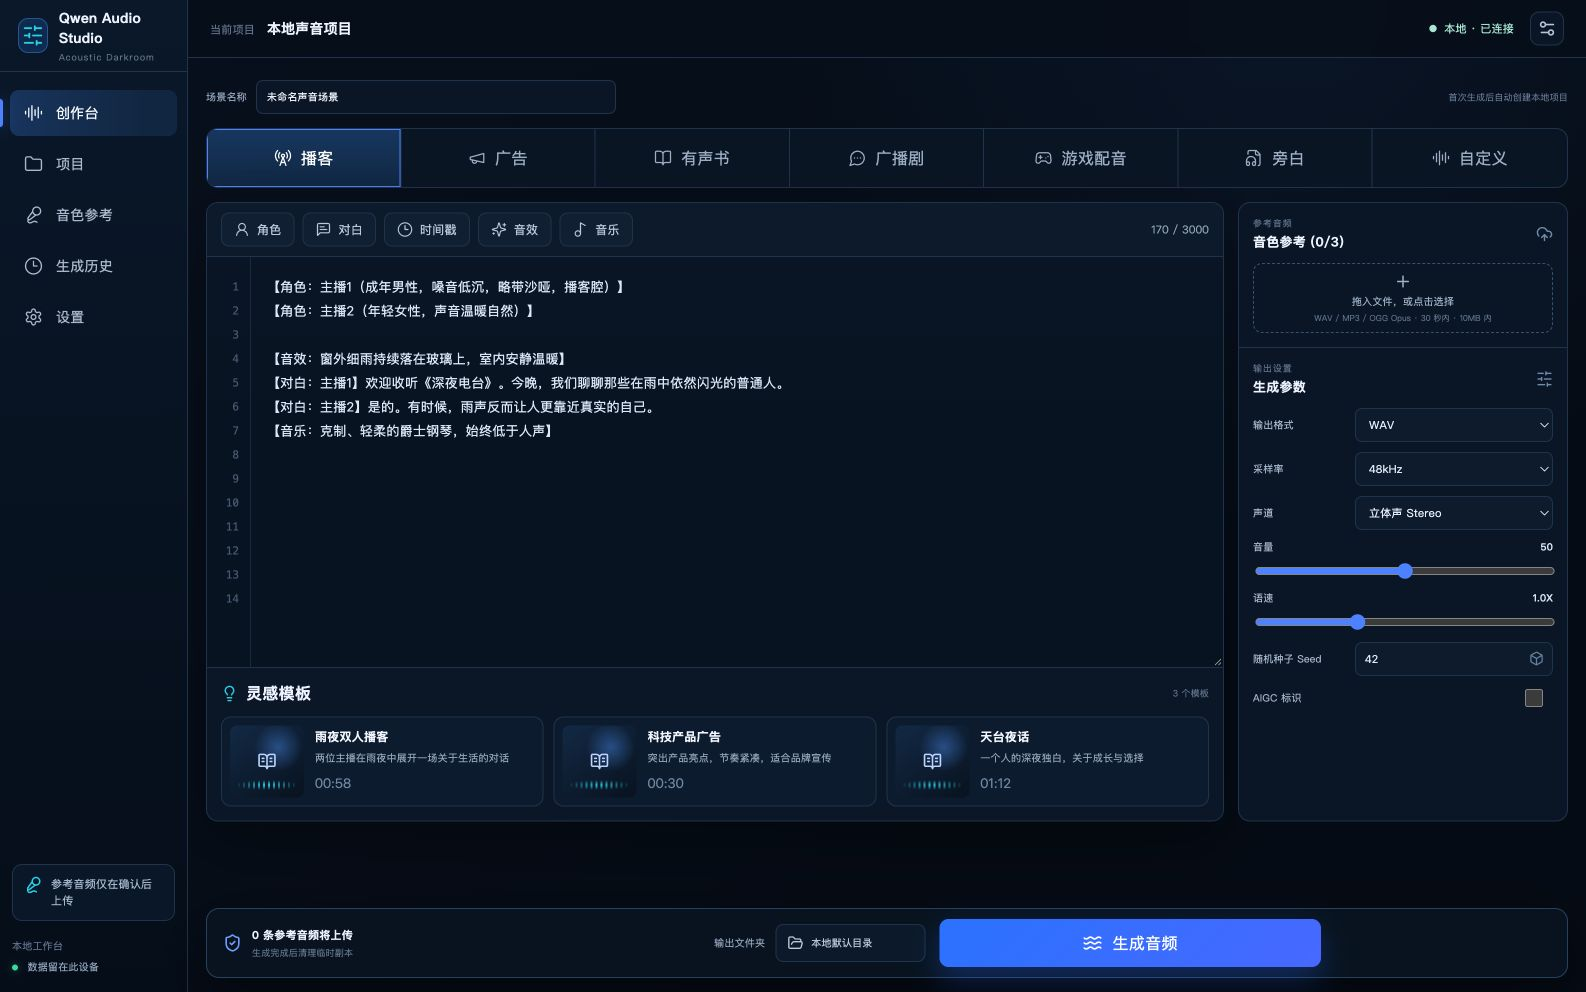
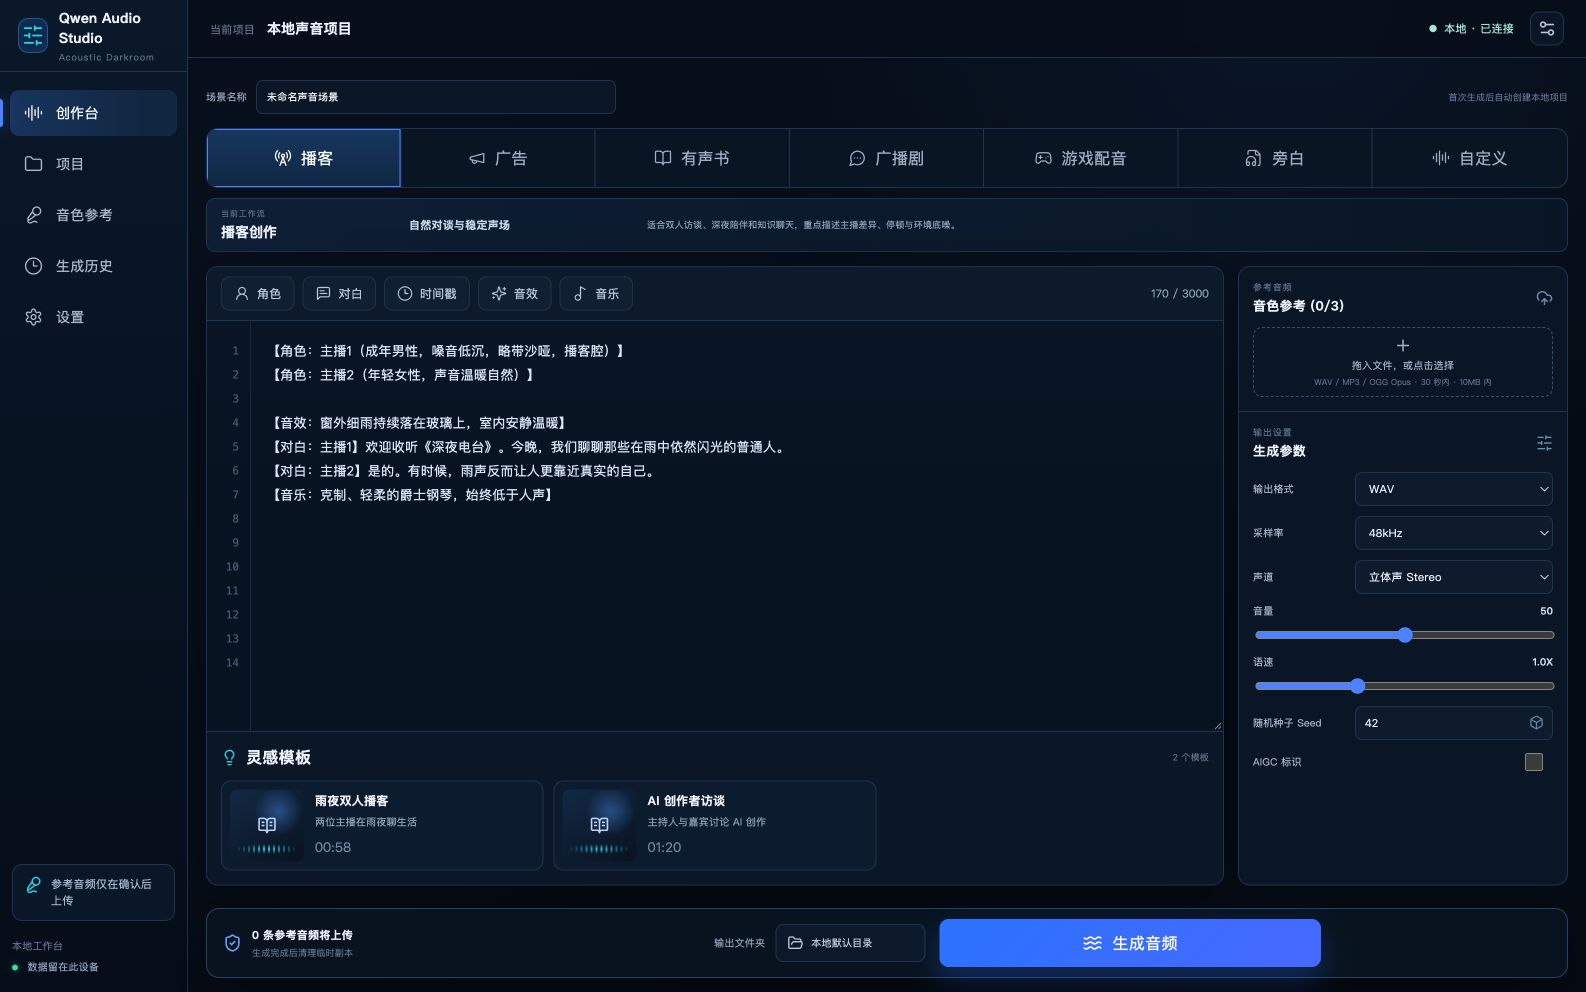
fix: make creation modes update the workbench

diff --git a/frontend/src/features/create/templates.ts b/frontend/src/features/create/templates.ts
@@ -9,46 +9,71 @@ export interface InspirationTemplate {
   prompt: string;
 }
 
+export const modeProfiles: Record<CreationMode, {title: string; description: string; detail: string}> = {
+  podcast: {title: "播客创作", description: "自然对谈与稳定声场", detail: "适合双人访谈、深夜陪伴和知识聊天，重点描述主播差异、停顿与环境底噪。"},
+  advertisement: {title: "广告创作", description: "短时长、高记忆点、强节奏", detail: "适合品牌片头与产品广告，建议明确开场音效、核心卖点、品牌落版和音乐淡出。"},
+  audiobook: {title: "有声书创作", description: "旁白叙事与角色对白", detail: "适合小说章节和故事片段，建议区分旁白、人物声线、场景氛围与段落节奏。"},
+  drama: {title: "广播剧创作", description: "多角色、动作音效与空间变化", detail: "适合悬疑、情感和科幻短剧，重点编排角色出场、动作先后与远近声场。"},
+  game: {title: "游戏配音创作", description: "NPC 台词与世界环境声", detail: "适合任务对白、战斗播报和交互语音，建议写清角色身份、状态、触发情境和环境事件。"},
+  narration: {title: "旁白创作", description: "单人讲述与清晰信息传达", detail: "适合科技解说、纪录片和教程，重点控制声线、语速、重音、停顿与背景克制程度。"},
+  auto: {title: "自定义创作", description: "自由组合完整声音场景", detail: "从空白结构开始，自由组合角色、对白、时间戳、音效与音乐。"}
+};
+
 export const inspirationTemplates: InspirationTemplate[] = [
   {
-    id: "rain-podcast",
-    title: "雨夜双人播客",
-    subtitle: "两位主播在雨夜中展开一场关于生活的对话",
-    mode: "podcast",
-    duration: "00:58",
-    prompt:
-      "【角色：主播1（成年男性，嗓音低沉，略带沙哑，播客腔）】\n" +
-      "【角色：主播2（年轻女性，声音温暖自然）】\n\n" +
-      "【音效：窗外细雨持续落在玻璃上，室内安静温暖】\n" +
-      "【对白：主播1】欢迎收听《深夜电台》。今晚，我们聊聊那些在雨中依然闪光的普通人。\n" +
-      "【对白：主播2】是的。有时候，雨声反而让人更靠近真实的自己。\n" +
-      "【音乐：克制、轻柔的爵士钢琴，始终低于人声】"
+    id: "rain-podcast", title: "雨夜双人播客", subtitle: "两位主播在雨夜聊生活", mode: "podcast", duration: "00:58",
+    prompt: "【角色：主播1（成年男性，嗓音低沉，略带沙哑，播客腔）】\n【角色：主播2（年轻女性，声音温暖自然）】\n\n【音效：窗外细雨持续落在玻璃上，室内安静温暖】\n【对白：主播1】欢迎收听《深夜电台》。今晚，我们聊聊那些在雨中依然闪光的普通人。\n【对白：主播2】是的。有时候，雨声反而让人更靠近真实的自己。\n【音乐：克制、轻柔的爵士钢琴，始终低于人声】"
   },
   {
-    id: "tech-ad",
-    title: "科技产品广告",
-    subtitle: "突出产品亮点，节奏紧凑，适合品牌宣传",
-    mode: "advertisement",
-    duration: "00:30",
-    prompt:
-      "【角色：广告播音员（三十岁男性，清亮冷静，富有科技感）】\n" +
-      "【音乐：未来感合成器琶音与克制电子鼓组】\n" +
-      "【对白：广告播音员】未来，此刻就在你手中。\n" +
-      "【音效：清脆解锁提示音、界面滑动声、快门声】\n" +
-      "【对白：广告播音员】看见更远的未来。"
+    id: "tech-podcast", title: "AI 创作者访谈", subtitle: "主持人与嘉宾讨论 AI 创作", mode: "podcast", duration: "01:20",
+    prompt: "【角色：主持人（青年男性，清晰、好奇、节奏自然）】\n【角色：嘉宾（成年女性，理性温和，表达笃定）】\n【音效：安静录音棚，极轻的设备底噪】\n【对白：主持人】AI 给创作者带来的最大变化是什么？\n【对白：嘉宾】它让一个人也能完成过去需要整个团队协作的工作。\n【音乐：片尾出现两秒极简电子提示音并淡出】"
   },
   {
-    id: "rooftop-story",
-    title: "天台夜话",
-    subtitle: "一个人的深夜独白，关于成长与选择",
-    mode: "audiobook",
-    duration: "01:12",
-    prompt:
-      "【角色：旁白（30岁女性，沉静、有故事感，语速舒缓）】\n" +
-      "【角色：阿哲（28岁男性，低沉疲惫但真诚）】\n" +
-      "【角色：大刘（28岁男性，爽朗乐观）】\n" +
-      "【音效：远处城市低鸣、晚风、易拉罐轻碰】\n" +
-      "【对白：阿哲】你说，我们是不是把日子过成了当年最讨厌的样子？\n" +
-      "【对白：大刘】管它呢。至少今晚，咱俩还是当年那两个小子。"
+    id: "tech-ad", title: "科技产品广告", subtitle: "节奏紧凑的产品品牌宣传", mode: "advertisement", duration: "00:30",
+    prompt: "【角色：广告播音员（三十岁男性，清亮冷静，富有科技感）】\n【音乐：未来感合成器琶音与克制电子鼓组】\n【对白：广告播音员】未来，此刻就在你手中。\n【音效：清脆解锁提示音、界面滑动声、快门声】\n【对白：广告播音员】看见更远的未来。"
+  },
+  {
+    id: "coffee-ad", title: "精品咖啡广告", subtitle: "磨豆、萃取与温暖品牌落版", mode: "advertisement", duration: "00:20",
+    prompt: "【音效：磨豆机短暂运转，随后是咖啡机蒸汽声与瓷杯轻放木桌】\n【角色：广告旁白（三十岁女性，温暖从容，语速舒缓）】\n【对白：广告旁白】世界很吵，但这一刻，属于你的安静。\n【音乐：轻柔爵士钢琴从台词下方缓慢浮现】\n【对白：广告旁白】木雀咖啡，慢下来，闻见生活。"
+  },
+  {
+    id: "rooftop-story", title: "天台夜话", subtitle: "旁白串起两个朋友的成长故事", mode: "audiobook", duration: "01:12",
+    prompt: "【角色：旁白（30岁女性，沉静、有故事感，语速舒缓）】\n【角色：阿哲（28岁男性，低沉疲惫但真诚）】\n【角色：大刘（28岁男性，爽朗乐观）】\n【音效：远处城市低鸣、晚风、易拉罐轻碰】\n【对白：阿哲】你说，我们是不是把日子过成了当年最讨厌的样子？\n【对白：大刘】管它呢。至少今晚，咱俩还是当年那两个小子。"
+  },
+  {
+    id: "forest-audiobook", title: "雾中森林", subtitle: "奇幻小说章节的沉浸式朗读", mode: "audiobook", duration: "01:30",
+    prompt: "【角色：旁白（成年男性，低沉克制，讲述感强）】\n【角色：少女（十六岁，警觉、轻声）】\n【音效：潮湿森林里的风、树叶摩擦与远处不明鸟鸣】\n【对白：旁白】雾从山谷里漫上来，把最后一条归路吞没。\n【对白：少女】别出声。它就在树后面。\n【音乐：低频弦乐极弱铺底，在对白后短暂增强】"
+  },
+  {
+    id: "midnight-store", title: "凌晨两点的便利店", subtitle: "暴雨夜里的原创悬疑短剧", mode: "drama", duration: "00:45",
+    prompt: "【音效：门外暴雨，便利店门被推开，电子门铃响起，门关闭后雨声明显变闷】\n【角色：店员（二十岁男性，熬夜后的沙哑与疲惫）】\n【角色：顾客（五十岁男性，浑厚低沉，语速极慢）】\n【对白：店员】欢迎光临，关东煮卖完了啊。\n【对白：顾客】给我一份昨天的报纸。\n【音效：键盘敲击突然停止，远处传来一声闷雷】"
+  },
+  {
+    id: "airlock-drama", title: "气闸关闭前", subtitle: "警报声中的科幻救援对话", mode: "drama", duration: "00:38",
+    prompt: "【音效：空间站红色警报持续蜂鸣，气压阀快速泄气】\n【角色：指挥员（成年女性，强行保持冷静）】\n【角色：舱外队员（成年男性，隔着面罩急促喘息）】\n【对白：指挥员】气闸将在十秒后关闭，立刻抓住安全索！\n【对白：舱外队员】我看见接口了，再给我三秒！\n【音乐：紧张低频脉冲在最后骤停】"
+  },
+  {
+    id: "village-elder", title: "古槐树下的老村长", subtitle: "开放世界中的任务委托", mode: "game", duration: "00:28",
+    prompt: "【音效：古槐树叶沙沙作响，远处有鸡鸣、犬吠和溪水声】\n【角色：老村长（七十岁男性，嗓音沧桑干哑，语速迟缓慈祥）】\n【对白：老村长】孩子啊，你来得正好。后山那边昨夜又闹起了怪动静，大伙儿心里都慌得很。\n【音效：木拐杖轻轻顿在泥地上】\n【对白：老村长】你替老汉走一趟，村里老少都指望你了。"
+  },
+  {
+    id: "dungeon-merchant", title: "地下城商人", subtitle: "洞窟营地里的道具交易语音", mode: "game", duration: "00:22",
+    prompt: "【音效：洞窟篝火噼啪作响，远处滴水，金币在掌心碰撞】\n【角色：商人（中年男性，圆滑热情，压低声音）】\n【对白：商人】新来的勇士，看看这把刀。它可从来没让主人失望过。\n【音效：刀刃缓慢出鞘，产生短促金属摩擦声】\n【对白：商人】今天算你便宜一点。"
+  },
+  {
+    id: "ai-narration", title: "AI 趋势解说", subtitle: "清晰克制的科技视频旁白", mode: "narration", duration: "00:25",
+    prompt: "【角色：旁白（年轻男性，吐字清楚，语速中等，可信而克制）】\n【对白：旁白】AI 正在把一个人的创作能力，扩展成一支完整团队。\n【音效：录音室环境保持安静】\n【音乐：极轻的现代电子氛围从第二句下方进入，结尾半秒淡出】"
+  },
+  {
+    id: "nature-narration", title: "清晨森林纪录片", subtitle: "自然纪录片的沉静旁白", mode: "narration", duration: "00:35",
+    prompt: "【音效：清晨森林，近处露水滴落，远处鸟群逐渐苏醒】\n【角色：旁白（成年女性，沉静、温柔、带纪录片质感）】\n【对白：旁白】第一束光穿过树冠时，森林里最安静的居民已经开始了一天的迁徙。\n【音乐：稀疏弦乐与自然声融合，始终低于旁白】"
+  },
+  {
+    id: "custom-scene", title: "自定义声音场景", subtitle: "从结构化骨架开始自由创作", mode: "auto", duration: "自由",
+    prompt: "【角色：请在这里定义角色、年龄、声线与情绪】\n【音效：请在这里定义空间、环境声与动作音效】\n【时间戳：可选，描述声音事件的大致出现区间】\n【对白：角色名】请在这里写入需要保留的准确台词。\n【音乐：请描述音乐风格、强弱变化与淡入淡出方式】"
+  },
+  {
+    id: "custom-logo", title: "声音 Logo 实验", subtitle: "短促品牌声纹与一句落版", mode: "auto", duration: "00:08",
+    prompt: "【音效：三颗由低到高的清澈合成器音符，最后一颗带短促空间尾音】\n【角色：品牌声线（中性、清晰、友好）】\n【对白：品牌声线】让好声音，被认真听见。\n【音乐：对白结束后保留一秒品牌尾音并干净停止】"
   }
 ];

diff --git a/frontend/src/features/create/CreateWorkbench.tsx b/frontend/src/features/create/CreateWorkbench.tsx
@@ -14,7 +14,7 @@ import {GenerationInspector} from "./GenerationInspector";
 import {ModeSelector} from "./ModeSelector";
 import {PromptTagToolbar} from "./PromptTagToolbar";
 import {ReferenceAudioRack} from "./ReferenceAudioRack";
-import {inspirationTemplates} from "./templates";
+import {inspirationTemplates, modeProfiles} from "./templates";
 
 const initialPrompt = inspirationTemplates[0].prompt;
 
@@ -63,6 +63,11 @@ export default function CreateWorkbench({
   const [error, setError] = useState("");
   const editorRef = useRef<HTMLTextAreaElement>(null);
   const remaining = 3000 - prompt.length;
+  const visibleTemplates = useMemo(
+    () => inspirationTemplates.filter((template) => template.mode === mode),
+    [mode]
+  );
+  const profile = modeProfiles[mode];
 
   const canGenerate = useMemo(
     () => credentialsReady && prompt.trim().length > 0 && remaining >= 0,
@@ -81,6 +86,19 @@ export default function CreateWorkbench({
       textarea?.focus();
       textarea?.setSelectionRange(update.selection.start, update.selection.end);
     });
+  };
+
+  const changeMode = (nextMode: CreationMode) => {
+    const promptComesFromTemplate = inspirationTemplates.some(
+      (template) => template.prompt === prompt
+    );
+    setMode(nextMode);
+    if (promptComesFromTemplate) {
+      const starter = inspirationTemplates.find(
+        (template) => template.mode === nextMode
+      );
+      if (starter) setPrompt(starter.prompt);
+    }
   };
 
   const submit = async () => {
@@ -135,7 +153,12 @@ export default function CreateWorkbench({
         <label>场景名称<input aria-label="场景名称" value={projectName} maxLength={120} onChange={(event) => setProjectName(event.target.value)} /></label>
         {initialProject ? <span>正在续作 · 新结果会归入同一项目</span> : <span>首次生成后自动创建本地项目</span>}
       </div>
-      <ModeSelector value={mode} onChange={setMode} />
+      <ModeSelector value={mode} onChange={changeMode} />
+      <section className="mode-context" aria-live="polite">
+        <div><span>当前工作流</span><h2>{profile.title}</h2></div>
+        <strong>{profile.description}</strong>
+        <p>{profile.detail}</p>
+      </section>
       <div className="workbench-grid">
         <section className="prompt-studio">
           <div className="editor-header">
@@ -161,10 +184,10 @@ export default function CreateWorkbench({
           <section className="inspiration-section">
             <div className="inspiration-heading">
               <div><Lightbulb size={17} /><strong>灵感模板</strong></div>
-              <span className="template-count">{inspirationTemplates.length} 个模板</span>
+              <span className="template-count">{visibleTemplates.length} 个模板</span>
             </div>
             <div className="template-rail">
-              {inspirationTemplates.map((template) => (
+              {visibleTemplates.map((template) => (
                 <button
                   type="button"
                   className="template-card"

diff --git a/frontend/src/features/create/CreateWorkbench.test.tsx b/frontend/src/features/create/CreateWorkbench.test.tsx
@@ -25,6 +25,38 @@ describe("creation workbench", () => {
     expect(editor.value).toContain("窗外细雨");
   });
 
+  it("loads mode-specific guidance, templates and starter prompts", async () => {
+    const user = userEvent.setup();
+    render(<CreateWorkbench credentialsReady onSubmit={vi.fn()} onJobCreated={vi.fn()} />);
+    const editor = screen.getByLabelText("场景提示词");
+    const cases = [
+      {label: "广告", guide: "广告创作", template: "科技产品广告", prompt: "未来，此刻就在你手中"},
+      {label: "有声书", guide: "有声书创作", template: "天台夜话", prompt: "你说，我们是不是"},
+      {label: "广播剧", guide: "广播剧创作", template: "凌晨两点的便利店", prompt: "关东煮卖完了"},
+      {label: "游戏配音", guide: "游戏配音创作", template: "古槐树下的老村长", prompt: "后山那边"},
+      {label: "旁白", guide: "旁白创作", template: "AI 趋势解说", prompt: "一个人的创作能力"},
+      {label: "自定义", guide: "自定义创作", template: "自定义声音场景", prompt: "请在这里定义"}
+    ];
+
+    for (const item of cases) {
+      await user.click(screen.getByRole("button", {name: item.label}));
+      expect(screen.getByRole("heading", {name: item.guide})).toBeVisible();
+      expect(screen.getByRole("button", {name: new RegExp(item.template)})).toBeVisible();
+      expect((editor as HTMLTextAreaElement).value).toContain(item.prompt);
+    }
+  });
+
+  it("preserves a hand-edited prompt while changing the mode template rail", async () => {
+    const user = userEvent.setup();
+    render(<CreateWorkbench credentialsReady onSubmit={vi.fn()} onJobCreated={vi.fn()} />);
+    const editor = screen.getByLabelText("场景提示词");
+    await user.clear(editor);
+    await user.type(editor, "这是一段我自己写的提示词");
+    await user.click(screen.getByRole("button", {name: "广播剧"}));
+    expect(editor).toHaveValue("这是一段我自己写的提示词");
+    expect(screen.getByRole("button", {name: /凌晨两点的便利店/})).toBeVisible();
+  });
+
   it("disables generation until credentials are configured", () => {
     render(
       <CreateWorkbench

diff --git a/frontend/src/styles/global.css b/frontend/src/styles/global.css
@@ -193,6 +193,23 @@ a { color: inherit; text-decoration: none; }
   background: #0a1524;
 }
 
+.mode-context {
+  min-height: 54px;
+  display: grid;
+  grid-template-columns: 170px 220px minmax(0, 1fr);
+  align-items: center;
+  gap: 18px;
+  margin-top: 10px;
+  padding: 9px 14px;
+  border: 1px solid var(--line);
+  border-radius: 9px;
+  background: linear-gradient(90deg, rgb(30 66 112 / 30%), rgb(9 23 39 / 78%));
+}
+.mode-context span { display: block; color: var(--subtle); font-size: 8px; letter-spacing: 0.09em; }
+.mode-context h2 { margin: 3px 0 0; font-size: 14px; letter-spacing: -0.02em; }
+.mode-context > strong { color: #c9d7e8; font-size: 11px; }
+.mode-context p { margin: 0; color: var(--muted); font-size: 9px; line-height: 1.55; }
+
 .mode-button {
   min-height: 58px;
   display: flex;
@@ -842,6 +859,8 @@ a { color: inherit; text-decoration: none; }
   .create-workbench { padding: 10px 10px 92px; }
   .mode-selector { grid-template-columns: repeat(4, 1fr); }
   .mode-button { min-height: 52px; font-size: 11px; }
+  .mode-context { grid-template-columns: 130px 1fr; }
+  .mode-context p { grid-column: 1 / -1; }
   .workbench-inspector { grid-template-columns: 1fr; }
   .reference-rack { border-right: 0; border-bottom: 1px solid var(--line); }
   .template-rail { grid-template-columns: 1fr; }
@@ -887,6 +906,8 @@ a { color: inherit; text-decoration: none; }
   .create-workbench { min-height: calc(100vh - 116px); }
   .generation-command-bar { left: 10px; right: 10px; bottom: 72px; grid-template-columns: 1fr 145px; }
   .mode-selector { grid-template-columns: repeat(2, 1fr); }
+  .mode-context { grid-template-columns: 1fr; gap: 5px; }
+  .mode-context p { grid-column: auto; }
   .editor-header { align-items: flex-start; gap: 8px; }
   .char-count { padding-top: 9px; }
   .editor-canvas { grid-template-columns: 34px 1fr; }

diff --git a/QA.md b/QA.md
@@ -5,7 +5,7 @@
 ## 自动化回归
 
 - Backend：26/26 通过。
-- Frontend：24/24 通过。
+- Frontend：26/26 通过。
 - macOS launcher：4/4 通过。
 - Vite production build：通过。
 - macOS 应用包：arm64 Mach-O 启动器、Info.plist、项目路径解析和 Finder 双击链路通过。
@@ -21,6 +21,7 @@
 - 播放、暂停、后退、音量、下载、真实版本切换、A/B 同步播放和最终版本标记通过。
 - 直接刷新子路由后的 CSRF 初始化、参考音频删除、同项目续作和 URL 指定版本优先级通过。
 - WAV/MP3 使用浏览器解码后的真实峰值波形；PCM 明确提供下载并禁用网页伪播放。
+- 7 个创作模式均联动专属说明、模板与起始 Prompt；手写 Prompt 在切换模式时保持不变。
 - 控制台在最终回归中无 error/warn。
 
 ## 真实 API 冒烟

diff --git a/README.md b/README.md
@@ -7,6 +7,7 @@
 ## 能力
 
 - 播客、广告、有声书、广播剧、游戏配音、旁白、自定义 7 种创作模式
+- 模式切换会联动工作流说明、专属模板和起始 Prompt；手写内容会被保留
 - 角色、对白、时间戳、音效、音乐快捷标签与灵感模板
 - 最多 3 条参考音频；本地检查格式、编码、时长和大小，生成前明确确认上传
 - WAV、MP3、PCM；8kHz、16kHz、24kHz、44.1kHz、48kHz；单声道和双声道
@@ -80,7 +81,7 @@ python3 -m unittest discover tests -v
 npm run build
 ```
 
-当前回归基线：后端 26 项、前端 24 项、启动器 4 项。
+当前回归基线：后端 26 项、前端 26 项、启动器 4 项。
 
 ## 数据位置
 
